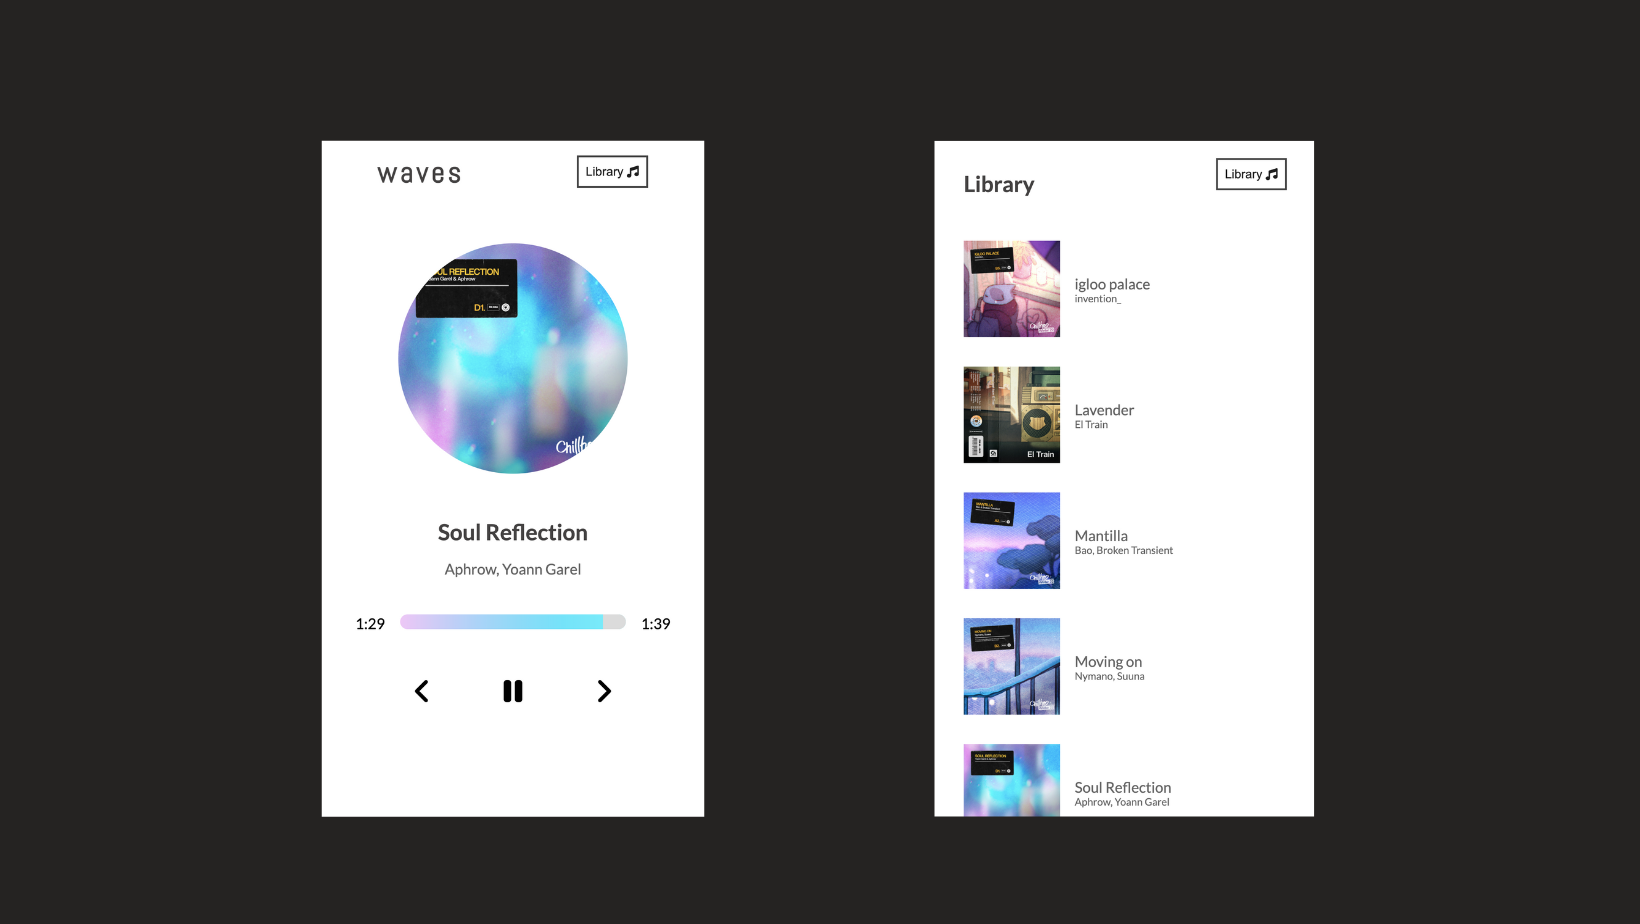
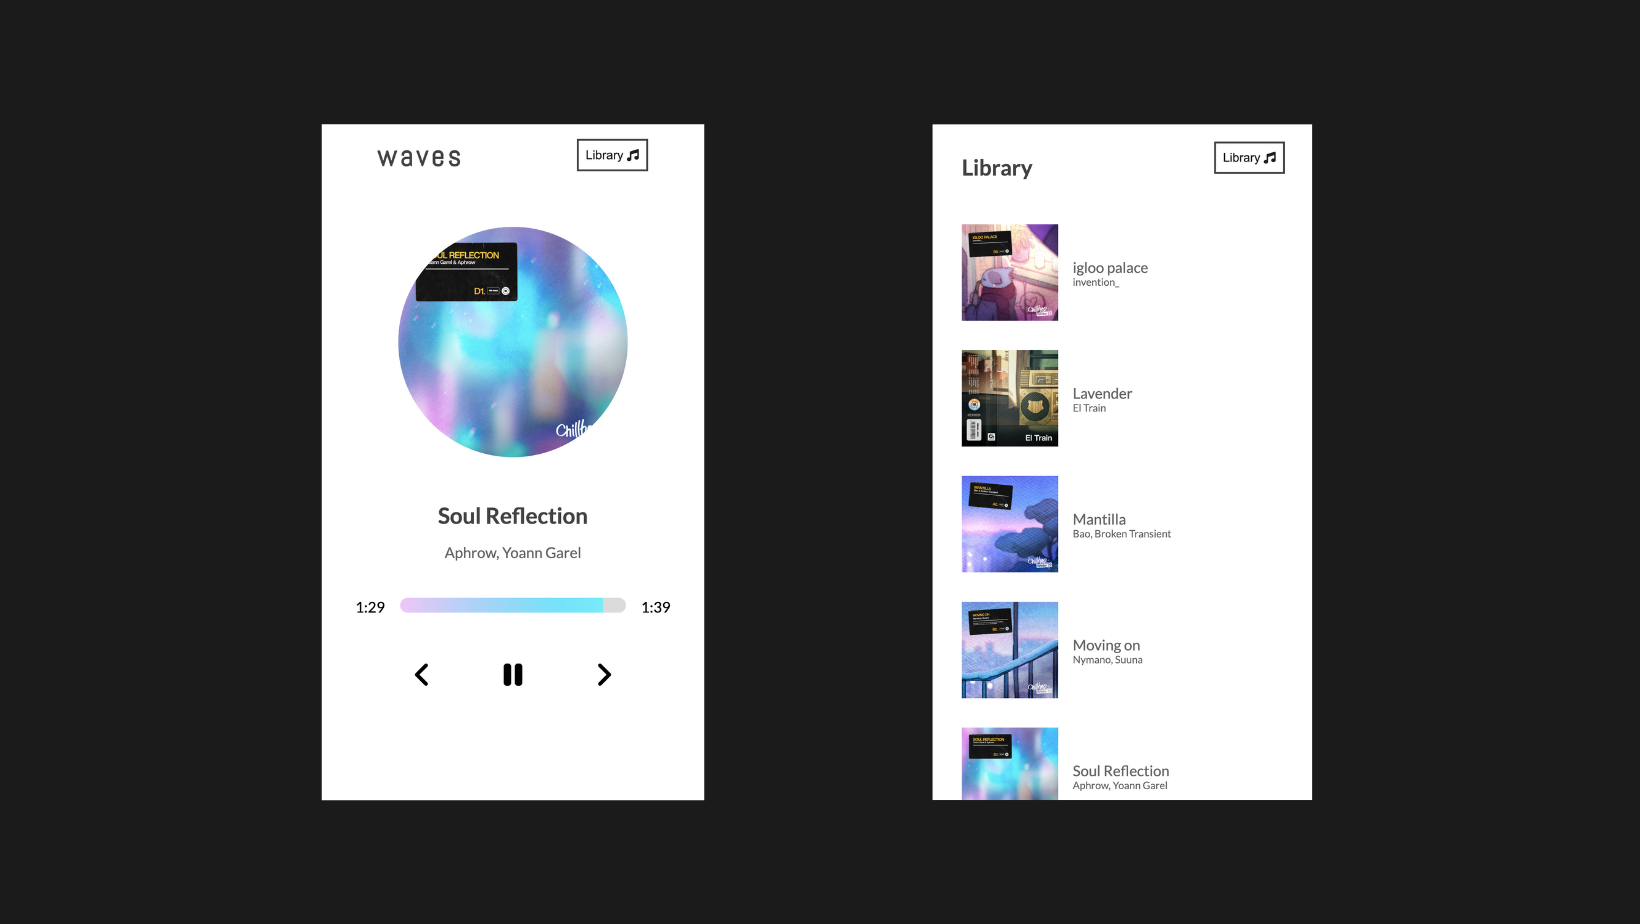
most project state data added, some photos need swapping

diff --git a/src/movieState.js b/src/movieState.js
@@ -1,5 +1,9 @@
-import foragr from "./images/foragr.png";
-import theracer from "./images/theracer-small.png";
+import foragrcollage1 from "./images/foragr-collage.png";
+import foragrcollage2 from "./images/foragr-collage2.png";
+import waves1 from "./images/waves1.png";
+import wavescollage from "./images/waves-collage.png";
+import melisande1 from "./images/melisande1.png";
+import melisande2 from "./images/melisande2.png";
 import goodtimes from "./images/goodtimes-small.png";
 import athlete2 from "./images/athlete2.png";
 import theracer2 from "./images/the-racer2.jpg";
@@ -8,51 +12,50 @@ import goodtimes2 from "./images/good-times2.jpg";
 export const movieState = () => {
   return [
     {
-      title: "The Athlete",
-      mainImg: goodtimes,
-      mainImgAlt: "boxer taking a rest",
-      secondaryImg: athlete2,
-      secondaryImgAlt: "shirtless boxers recovering",
+      title: "Waves",
+      mainImg: waves1,
+      mainImgAlt: "simple desktop view of miminalist music player",
+      secondaryImg: wavescollage,
+      secondaryImgAlt: "mobile view of minimalist music player",
       url: "/work/waves",
       awards: [
         {
-          title: "Truly A Masterpiece",
+          title: "Challenges",
           description:
             "Lorem ipsum, dolor sit amet consectetur adipisicing elit.",
         },
         {
-          title: "Fresh look on a brutal sport.",
+          title: "Successes",
           description:
             "Lorem ipsum dolor sit amet consectetur adipisicing elit.",
         },
         {
-          title: "It’s okay lmao.",
+          title: "Next",
           description:
             "“Lorem Ipsum is simply dummy text of the printing and typesetting industry.”",
         },
       ],
     },
     {
-      title: "Good Times",
-      mainImg: goodtimes,
-      mainImgAlt:
-        "couple embracing under a pine tree, boats in the water behind them",
+      title: "Melisande Yoga",
+      mainImg: melisande2,
+      mainImgAlt: "types of yoga classes",
       url: "/work/melisandeyoga",
-      secondaryImg: goodtimes2,
-      secondaryImgAlt: "couple playfully embracing in a hay field in autumn",
+      secondaryImg: melisande1,
+      secondaryImgAlt: "private classes booking info",
       awards: [
         {
-          title: "Truly A masterpiece",
+          title: "Challenges",
           description:
             "“Lorem Ipsum is simply dummy text of the printing and typesetting industry.”",
         },
         {
-          title: "Fresh look on a brutal sport.",
+          title: "Successes",
           description:
             "“Lorem Ipsum is simply dummy text of the printing and typesetting industry.”",
         },
         {
-          title: "It’s okay lmao.",
+          title: "Next",
           description:
             "“Lorem Ipsum is simply dummy text of the printing and typesetting industry.”",
         },
@@ -60,26 +63,26 @@ export const movieState = () => {
     },
     {
       title: "Foragr",
-      mainImg: foragr,
+      mainImg: foragrcollage1,
       mainImgAlt:
-        "landing page with a woodsy background and invitation to begin",
+        "mobile view series with full size map, cache details, and form to add a cache",
       url: "/work/foragr",
-      secondaryImg: theracer2,
+      secondaryImg: foragrcollage2,
       secondaryImgAlt:
-        "motorcyclist speeding along under arena lights, past dawn",
+        "mobile view series with landing page, profile, and species details",
       awards: [
         {
-          title: "Truly A masterpiece",
+          title: "Challenges",
           description:
             "“Lorem Ipsum is simply dummy text of the printing and typesetting industry.”",
         },
         {
-          title: "Fresh look on a brutal sport.",
+          title: "Successes",
           description:
             "“Lorem Ipsum is simply dummy text of the printing and typesetting industry.”",
         },
         {
-          title: "It’s okay lmao.",
+          title: "Next",
           description:
             "“Lorem Ipsum is simply dummy text of the printing and typesetting industry.”",
         },

diff --git a/src/pages/OurWork.js b/src/pages/OurWork.js
@@ -3,7 +3,7 @@ import styled from "styled-components";
 import { Link } from "react-router-dom";
 // Images
 import foragr1 from "../images/foragr-collage.png";
-import waves1 from "../images/waves1.png";
+import waves3 from "../images/waves3.png";
 import melisande1 from "../images/melisande1.png";
 import goodtimes from "../images/goodtimes-small.png";
 // Animations
@@ -20,7 +20,7 @@ const OurWork = () => {
           <h2>Waves</h2>
           <motion.div variants={lineAnim} className="line"></motion.div>
           <Link to="/work/waves">
-            <img src={waves1} alt="waves screenshot" />
+            <img src={waves3} alt="waves screenshot" />
           </Link>
         </Project>
       </UseScroll>

diff --git a/src/pages/Movie.js b/src/pages/Movie.js
@@ -52,6 +52,7 @@ const Movie = () => {
 
 const StyledMovie = styled(motion.div)`
   color: white;
+  margin: 5rem 10rem;
 `;
 
 const Banner = styled.div`
@@ -72,7 +73,7 @@ const Banner = styled.div`
 `;
 
 const ImageDisplay = styled.div`
-  min-height: 50vh;
+  min-height: 90vh;
   img {
     width: 100%;
     height: 100%;
